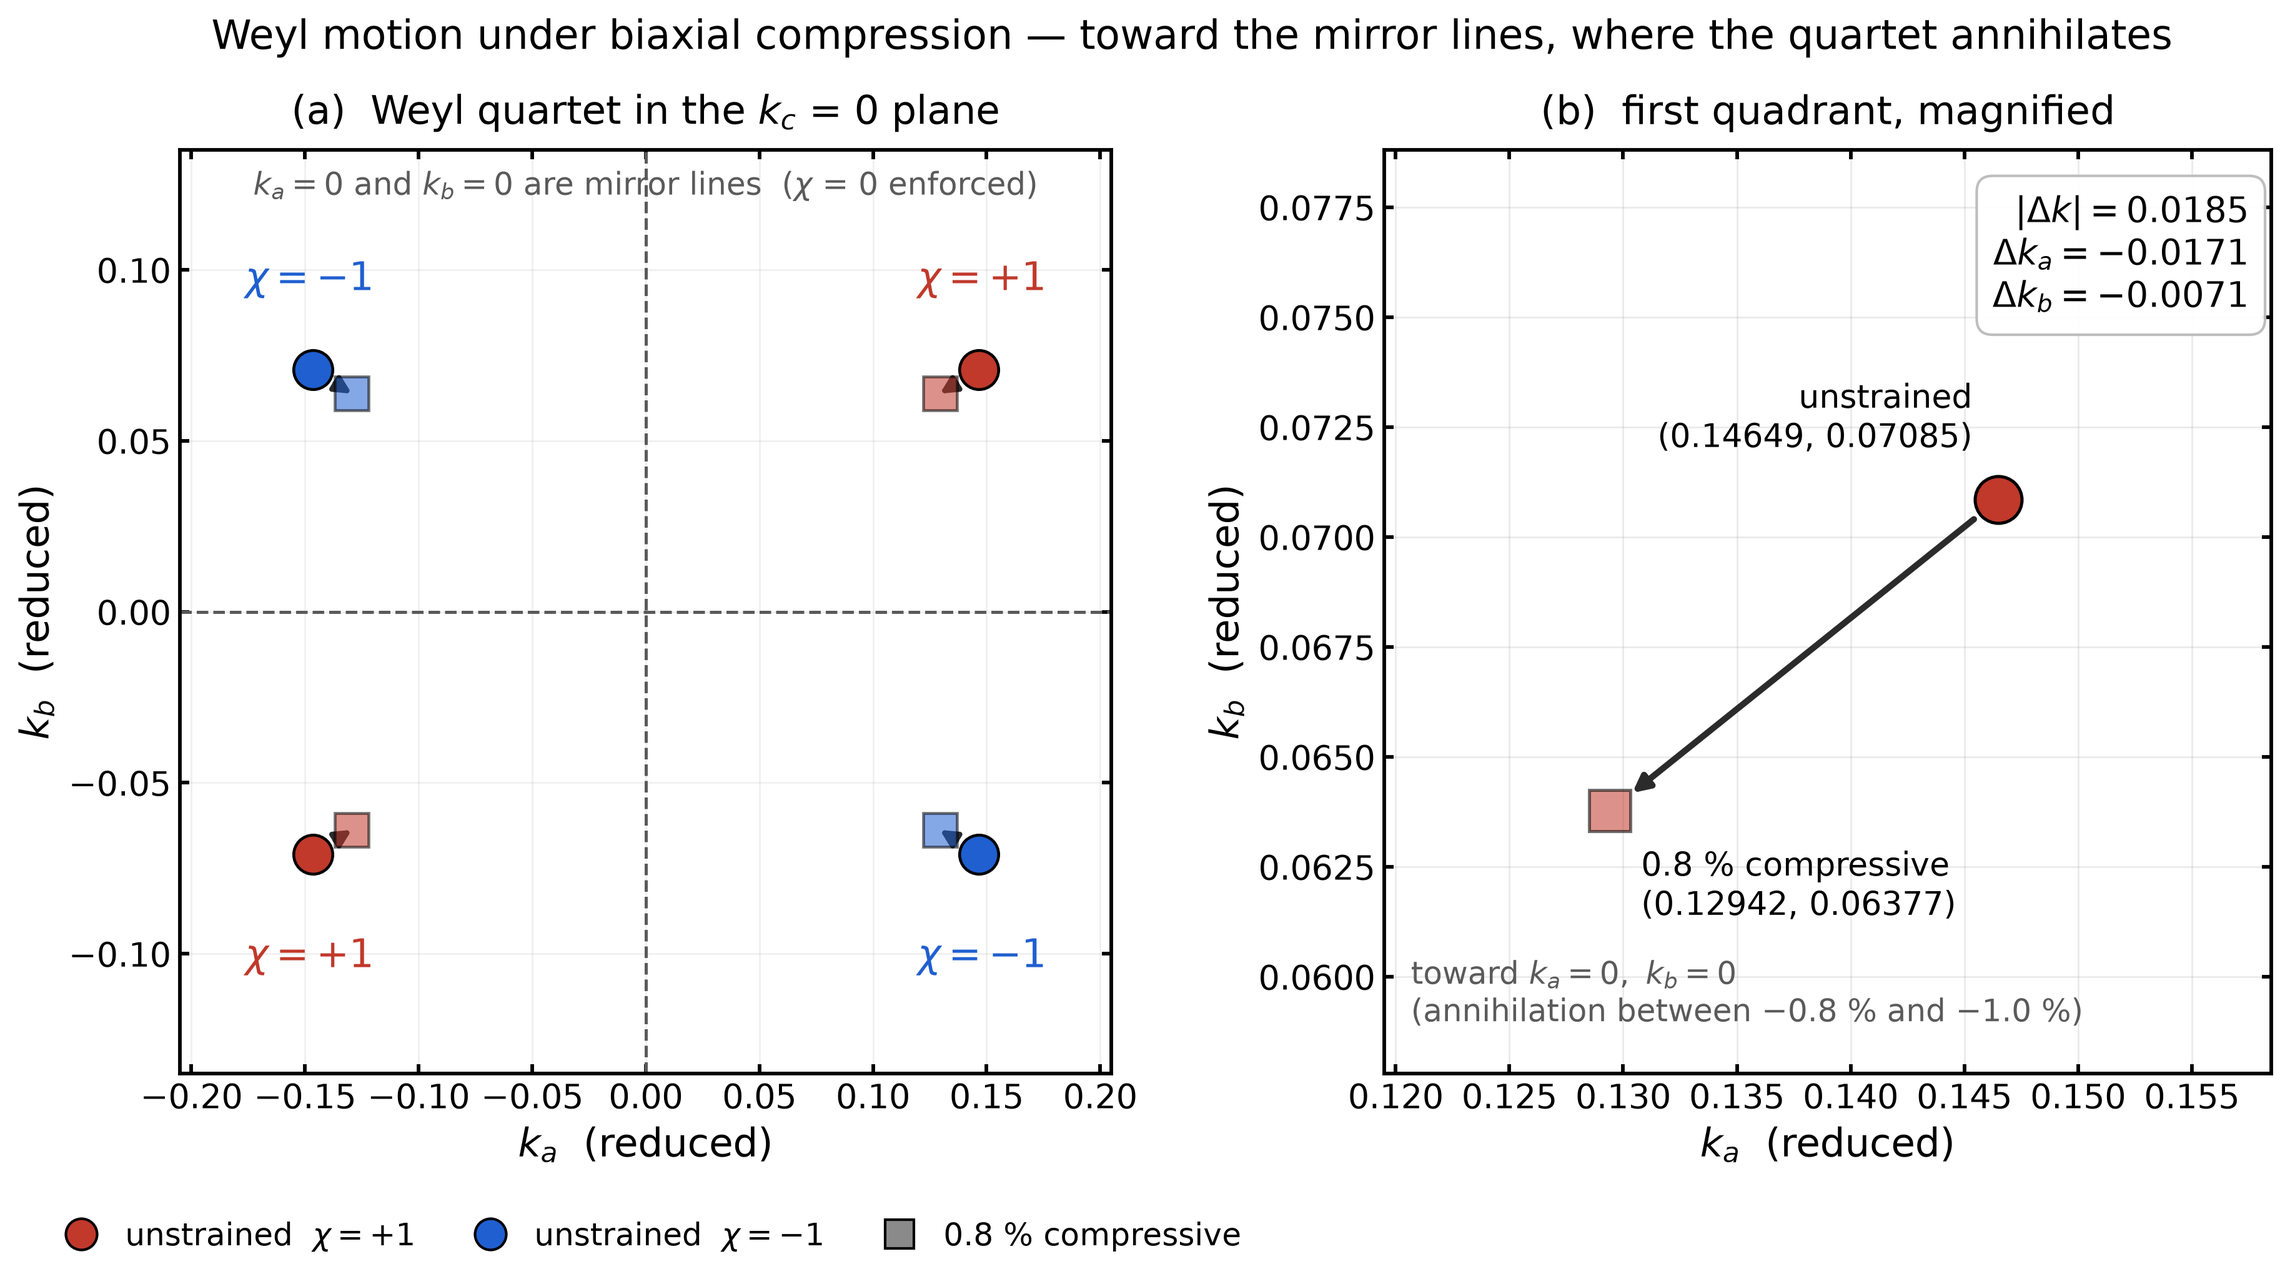
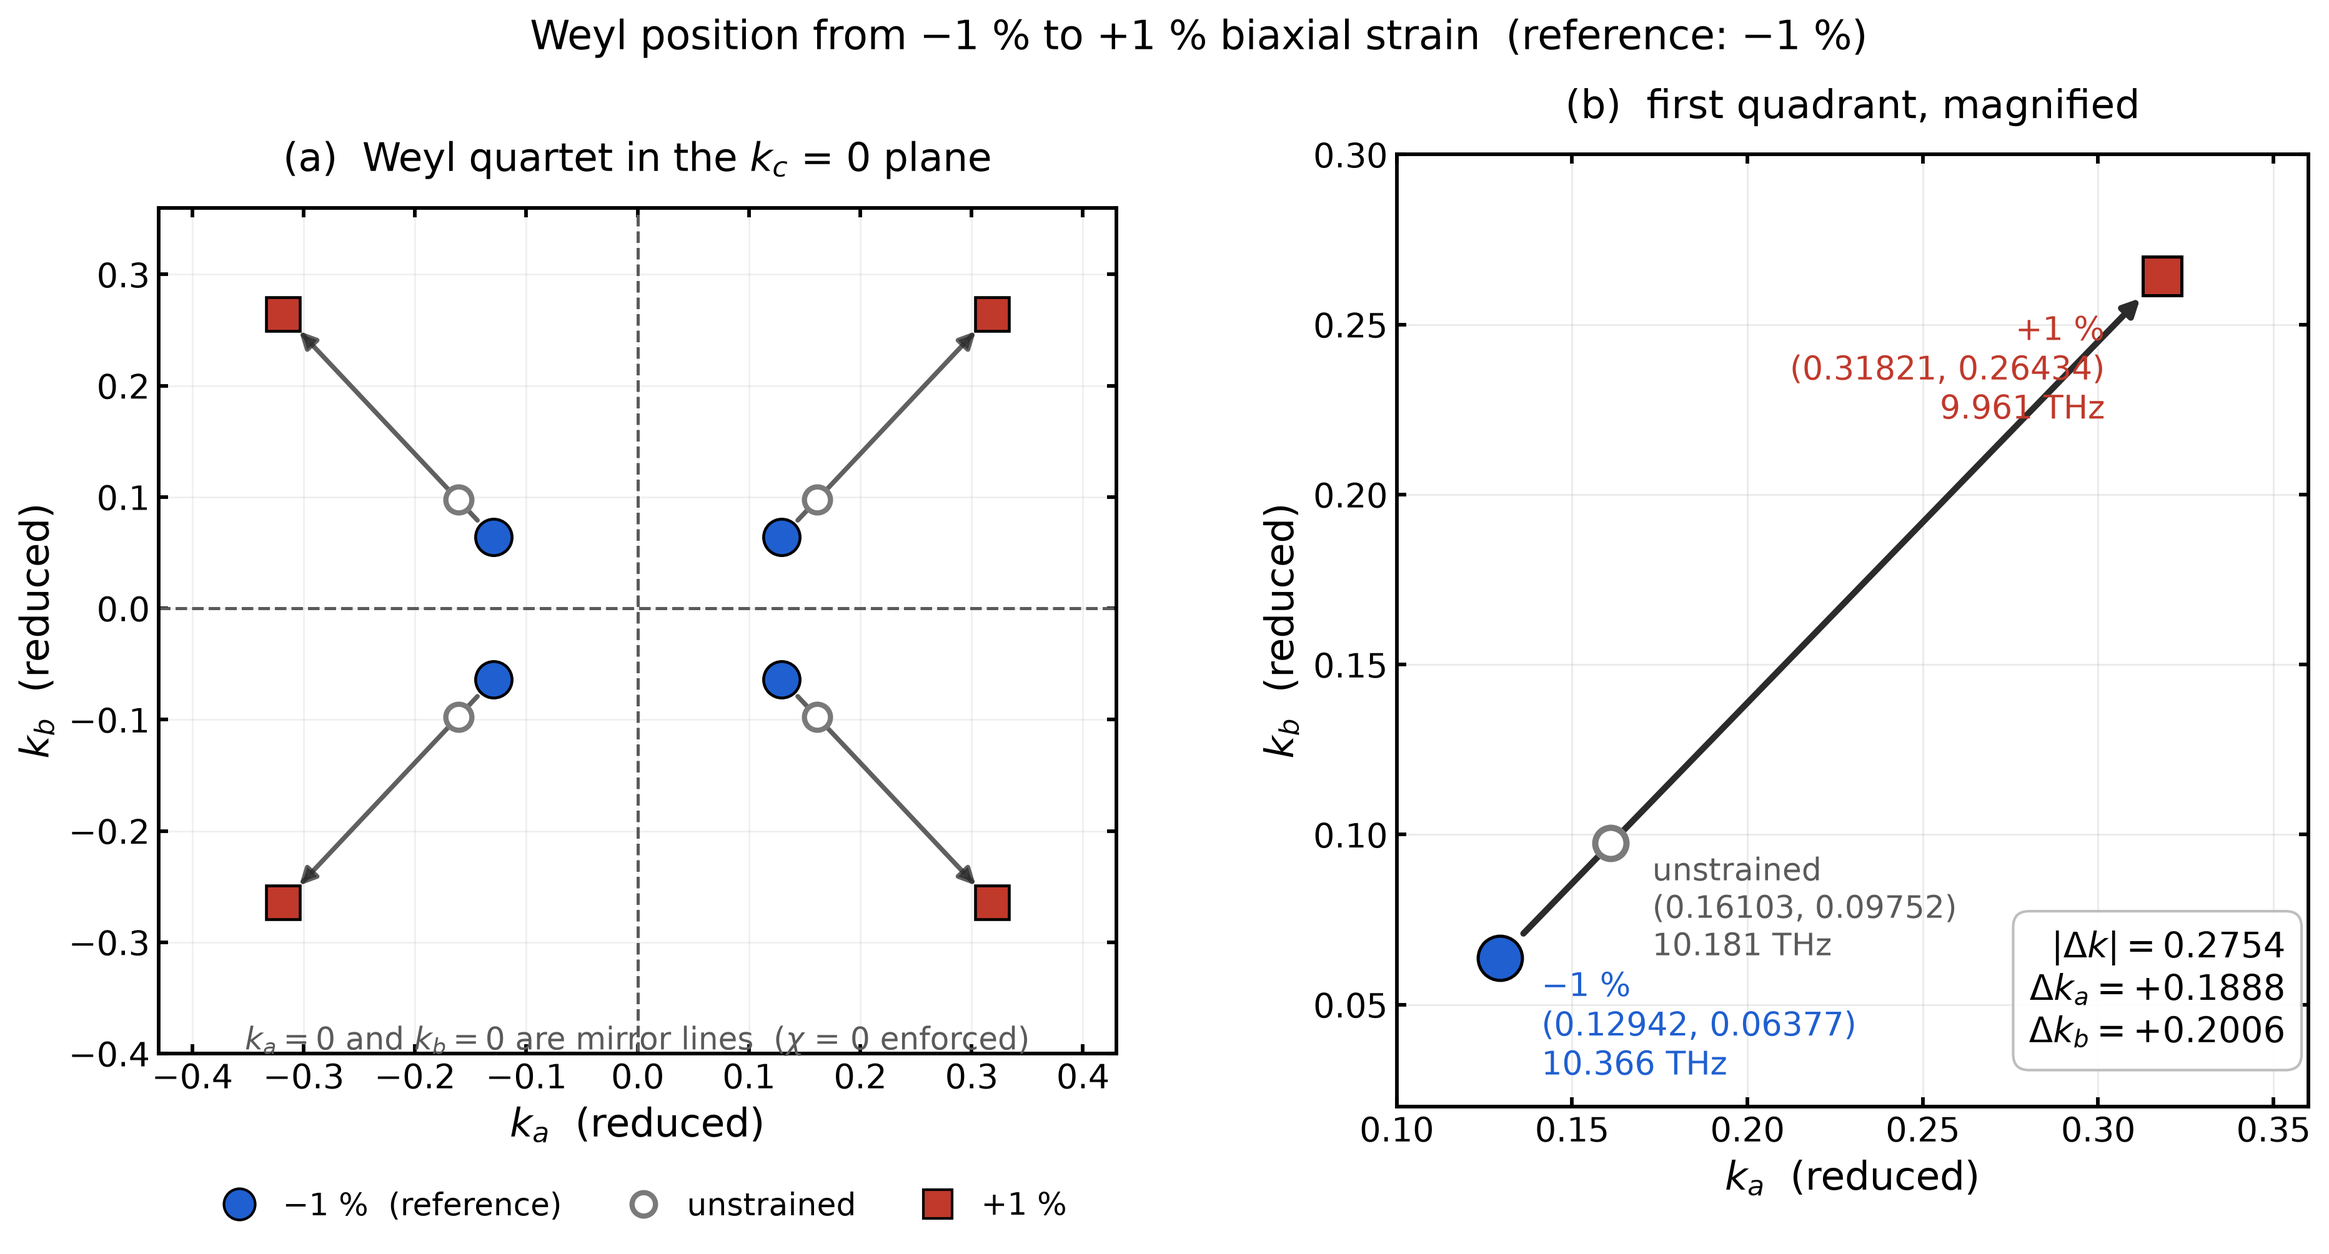
fig8: re-centre on -1% and show the -1% -> +1% trend
Rebuilt fig8 around the -1% structure as reference, with the unstrained point
shown in between. Every position was re-found from the POSCAR/FORCE_SETS
rather than copied from the earlier tables: a 201x201 scan of the polar=0
plane, then grid refinement of *every* local minimum outside the mirror
lines, keeping only those that stay at a general position. This is the
procedure results/node_audit/SUMMARY.md prescribes after the m2.5 error.

  -1%       native (0.0637717, 0, 0.1294182)  gap 3.55e-07  10.365955 THz
  unstrained       (0.0975234, 0, 0.1610282)  gap 2.68e-07  10.180597 THz
  +1%              (0.2643381, 0, 0.3182116)  gap 2.29e-07   9.960553 THz

In standard (a,b,c) that is k_a = native k3, k_b = native k1, k_c = 0, so
the quartet runs (0.12942, 0.06377) -> (0.31821, 0.26434), a shift of
|dk| = 0.2754 with dk_a = +0.1888, dk_b = +0.2006.

The recorded +1% coordinates were correct to six decimals.

Each of the three structures has exactly one node per quadrant in that
plane. pristine and -1% had four off-mirror local minima each and +1% had
seven; in every case all but one refine to gaps of 7.8e-04 or larger, four
orders above the nodes.

No chirality is annotated on the figure yet -- pristine and -1% come out with
one sign and +1% with the opposite under a single consistent implementation,
which cannot be a continuous motion of one point, so the arrow needs that
caveat before any chi is printed. Robustness of those signs is still being
checked.
[…]

diff --git a/scripts/figs/fig8_shift.py b/scripts/figs/fig8_shift.py
@@ -1,8 +1,13 @@
 #!/usr/bin/env python3
-"""Fig 8: pristine vs -0.8 % 의 바일 4점 위치 추이.
+"""Fig 8: −1 % → +1 % biaxial 에서 바일 4점 위치 추이. 기준은 −1 % 구조.
 
-(fig 6 은 `fig6_wcc.py` 로 분리했다 — Simphony 자체 .gnu 와 같은 내용으로
-WCC 합만 그린다.)
+좌표는 표준 (a, b, c) — 편극축 = c. pristine/m1/p1 세 구조 모두 축 규약이 같아
+(role2native = [2,0,1], polar = native 1) 같은 평면에 그대로 겹쳐 그릴 수 있다.
+
+위치는 전부 이 세션에서 다시 찾은 값이다 (기록값을 그대로 쓰지 않았다):
+polar=0 평면 201x201 스캔 -> 거울선 밖 국소최소 **전부** 격자 미세화 -> 일반위치에
+남는 것만 채택. 세 구조 모두 평면 위 노드는 사분면당 정확히 하나였다.
+자세한 내용은 results/strain_trend/SUMMARY.md.
 """
 import sys, os
 import numpy as np
@@ -10,68 +15,75 @@ sys.path.insert(0, os.path.dirname(os.path.abspath(__file__)))
 from style import setup, GREY
 setup()
 import matplotlib.pyplot as plt
+from matplotlib.lines import Line2D
 
-# ---------------- Fig 8 : Weyl 위치 추이 (표준 a,b,c 좌표)
-RED, BLU = '#c0392b', '#1f5fd0'
-pri = (0.1464927, 0.0708493)      # parent_pristine  (a,b)
-m08 = (0.1294180, 0.0637718)      # -0.8%  (native (0.06377,0,0.12942) -> role a=idx2, b=idx0)
-dka, dkb = m08[0] - pri[0], m08[1] - pri[1]
+# 표준 (k_a, k_b), k_c = 0.  k_a = native k3, k_b = native k1.
+M1 = (0.1294182, 0.0637717)      # −1 %  (native 0.0637717, 0, 0.1294182)   10.365955 THz
+PRI = (0.1610282, 0.0975234)     #  0 %  (native 0.0975234, 0, 0.1610282)   10.180597 THz
+P1 = (0.3182116, 0.2643381)      # +1 %  (native 0.2643381, 0, 0.3182116)    9.960553 THz
+E = {'m1': 10.365955, 'pri': 10.180597, 'p1': 9.960553}
+
+dka, dkb = P1[0] - M1[0], P1[1] - M1[1]
 dk = np.hypot(dka, dkb)
 
-fig, (ax, bx) = plt.subplots(1, 2, figsize=(14.4, 6.4),
+C_M1, C_P1, C_PRI = '#1f5fd0', '#c0392b', '#7a7a7a'
+
+fig, (ax, bx) = plt.subplots(1, 2, figsize=(14.8, 6.6),
                              gridspec_kw=dict(width_ratios=[1.05, 1.0], wspace=0.30))
 
-# --- (a) 4점 전체
+# --- (a) 4점 전체 -------------------------------------------------------------
 for sx in (1, -1):
     for sy in (1, -1):
-        c = RED if sx * sy > 0 else BLU
-        ax.annotate('', xy=(sx * m08[0], sy * m08[1]), xytext=(sx * pri[0], sy * pri[1]),
-                    arrowprops=dict(arrowstyle='-|>', color='#2b2b2b', lw=2.0,
-                                    shrinkA=10, shrinkB=9), zorder=3)
-        ax.plot(sx * pri[0], sy * pri[1], 'o', ms=15, color=c, mec='k', mew=1.1, zorder=5)
-        ax.plot(sx * m08[0], sy * m08[1], 's', ms=13, color=c, mec='k', mew=1.1,
-                alpha=0.55, zorder=4)
+        ax.annotate('', xy=(sx * P1[0], sy * P1[1]), xytext=(sx * M1[0], sy * M1[1]),
+                    arrowprops=dict(arrowstyle='-|>', color='#2b2b2b', lw=1.8,
+                                    shrinkA=9, shrinkB=9, alpha=0.75), zorder=3)
+        ax.plot(sx * PRI[0], sy * PRI[1], 'o', ms=10, color='white', mec=C_PRI,
+                mew=2.0, zorder=4)
+        ax.plot(sx * M1[0], sy * M1[1], 'o', ms=14, color=C_M1, mec='k', mew=1.1, zorder=5)
+        ax.plot(sx * P1[0], sy * P1[1], 's', ms=13, color=C_P1, mec='k', mew=1.1, zorder=5)
 ax.axhline(0, color=GREY, lw=1.2, ls='--'); ax.axvline(0, color=GREY, lw=1.2, ls='--')
-for s_, t_, col in ((+1, '$\\chi=+1$', RED), (-1, '$\\chi=-1$', BLU)):
-    ax.text(+0.148 * s_, 0.094, t_, color=col, ha='center', fontsize=15, fontweight='bold')
-    ax.text(-0.148 * s_, -0.104, t_, color=col, ha='center', fontsize=15, fontweight='bold')
-ax.text(0.0, 0.122, '$k_a=0$ and $k_b=0$ are mirror lines  ($\\chi$ = 0 enforced)',
-        ha='center', fontsize=12, color=GREY)
-ax.set_xlim(-0.205, 0.205); ax.set_ylim(-0.135, 0.135)
+ax.text(0.0, -0.375, '$k_a=0$ and $k_b=0$ are mirror lines  ($\\chi$ = 0 enforced)',
+        ha='center', va='top', fontsize=12, color=GREY)
+ax.set_xlim(-0.43, 0.43); ax.set_ylim(-0.40, 0.36)
 ax.set_xlabel('$k_a$  (reduced)'); ax.set_ylabel('$k_b$  (reduced)')
-ax.set_title('(a)  Weyl quartet in the $k_c$ = 0 plane', fontsize=15, pad=10)
+ax.set_title('(a)  Weyl quartet in the $k_c$ = 0 plane', fontsize=15, pad=14)
 ax.grid(alpha=0.18, lw=0.7)
-from matplotlib.lines import Line2D
-ax.legend(handles=[Line2D([], [], marker='o', ls='', ms=12, color=RED, mec='k', label='unstrained  $\\chi=+1$'),
-                   Line2D([], [], marker='o', ls='', ms=12, color=BLU, mec='k', label='unstrained  $\\chi=-1$'),
-                   Line2D([], [], marker='s', ls='', ms=11, color='#8a8a8a', mec='k', label='0.8 % compressive')],
-          loc='upper center', bbox_to_anchor=(0.5, -0.13), ncol=3,
-          frameon=False, handletextpad=0.4, columnspacing=1.4)
+ax.set_aspect('equal')
+ax.legend(handles=[
+    Line2D([], [], marker='o', ls='', ms=12, color=C_M1, mec='k', label='$-1$ %  (reference)'),
+    Line2D([], [], marker='o', ls='', ms=9, color='white', mec=C_PRI, mew=2.0, label='unstrained'),
+    Line2D([], [], marker='s', ls='', ms=11, color=C_P1, mec='k', label='$+1$ %')],
+    loc='upper center', bbox_to_anchor=(0.5, -0.13), ncol=3,
+    frameon=False, handletextpad=0.4, columnspacing=1.6)
 
-# --- (b) 1사분면 확대
-bx.annotate('', xy=m08, xytext=pri,
+# --- (b) 1사분면 확대 ---------------------------------------------------------
+bx.annotate('', xy=P1, xytext=M1,
             arrowprops=dict(arrowstyle='-|>', color='#2b2b2b', lw=2.4,
-                            shrinkA=12, shrinkB=11), zorder=3)
-bx.plot(*pri, 'o', ms=18, color=RED, mec='k', mew=1.2, zorder=5)
-bx.plot(*m08, 's', ms=16, color=RED, mec='k', mew=1.2, alpha=0.55, zorder=4)
-bx.annotate('unstrained\n(%.5f, %.5f)' % pri, xy=pri, xytext=(-10, 16),
-            textcoords='offset points', ha='right', va='bottom', fontsize=12.5)
-bx.annotate('0.8 %% compressive\n(%.5f, %.5f)' % m08, xy=m08, xytext=(12, -14),
-            textcoords='offset points', ha='left', va='top', fontsize=12.5)
-bx.text(0.975, 0.955,
+                            shrinkA=13, shrinkB=12), zorder=3)
+bx.plot(*M1, 'o', ms=17, color=C_M1, mec='k', mew=1.2, zorder=5)
+bx.plot(*PRI, 'o', ms=12, color='white', mec=C_PRI, mew=2.4, zorder=5)
+bx.plot(*P1, 's', ms=15, color=C_P1, mec='k', mew=1.2, zorder=5)
+bx.annotate('$-1$ %%\n(%.5f, %.5f)\n%.3f THz' % (M1 + (E['m1'],)), xy=M1,
+            xytext=(16, -4), textcoords='offset points', ha='left', va='top',
+            fontsize=12.5, color=C_M1)
+bx.annotate('unstrained\n(%.5f, %.5f)\n%.3f THz' % (PRI + (E['pri'],)), xy=PRI,
+            xytext=(16, -4), textcoords='offset points', ha='left', va='top',
+            fontsize=12, color='#5a5a5a')
+bx.annotate('$+1$ %%\n(%.5f, %.5f)\n%.3f THz' % (P1 + (E['p1'],)), xy=P1,
+            xytext=(-22, -14), textcoords='offset points', ha='right', va='top',
+            fontsize=12.5, color=C_P1)
+bx.text(0.975, 0.055,
         '$|\\Delta k| = %.4f$\n$\\Delta k_a = %+.4f$\n$\\Delta k_b = %+.4f$' % (dk, dka, dkb),
-        transform=bx.transAxes, ha='right', va='top', fontsize=13.5,
+        transform=bx.transAxes, ha='right', va='bottom', fontsize=13.5, zorder=8,
         bbox=dict(boxstyle='round,pad=0.45', fc='white', ec='#bbbbbb', lw=1.0, alpha=0.95))
-bx.text(0.03, 0.045, 'toward $k_a=0,\\ k_b=0$\n(annihilation between $-0.8$ % and $-1.0$ %)',
-        transform=bx.transAxes, ha='left', va='bottom', fontsize=12, color=GREY)
-bx.set_xlim(0.1195, 0.1585); bx.set_ylim(0.0578, 0.0788)
+bx.set_xlim(0.100, 0.360); bx.set_ylim(0.020, 0.300)
 bx.set_xlabel('$k_a$  (reduced)'); bx.set_ylabel('$k_b$  (reduced)')
-bx.set_title('(b)  first quadrant, magnified', fontsize=15, pad=10)
+bx.set_title('(b)  first quadrant, magnified', fontsize=15, pad=14)
 bx.grid(alpha=0.25, lw=0.7)
 
-fig.suptitle('Weyl motion under biaxial compression — toward the mirror lines, where the quartet annihilates',
+fig.suptitle('Weyl position from $-1$ % to $+1$ % biaxial strain  (reference: $-1$ %)',
              y=0.99, fontsize=15.5)
 fig.savefig('figs/fig8_weyl_shift.png')
 plt.close(fig)
 print('fig8 저장')
-print('이동량 (표준좌표): Delta k_a=%+.5f  Delta k_b=%+.5f  |Delta k|=%.5f' % (dka, dkb, dk))
+print('−1%% -> +1%%  Δk_a=%+.5f  Δk_b=%+.5f  |Δk|=%.5f' % (dka, dkb, dk))

diff --git a/scripts/figs/plane_survey.py b/scripts/figs/plane_survey.py
@@ -1,0 +1,81 @@
+#!/usr/bin/env python3
+"""polar=0 평면 위 band17/18 노드 전수 조사 — pristine / m1 / p1.
+
+node_audit 의 교훈대로: gap 순위로 자르지 않고 **국소최소 후보를 전부** 격자
+미세화한 뒤, (a) 거울선에 빨려들지 않고 일반위치에 남는가 (b) chirality 가 여러
+반지름에서 정수로 안정한가 로 판정한다.
+"""
+import sys, time
+import numpy as np
+sys.path.insert(0, __file__.rsplit('/', 2)[0])
+sys.path.insert(0, __file__.rsplit('/', 1)[0])
+from weyl_scan import get_ph, gap_at, symmetry_info
+from axes import roles
+
+BAND = 17
+N = 201                      # 평면 격자 (간격 0.0025)
+TOLMIR = 0.012               # 거울선에서 이만큼 안쪽만 후보로
+
+def flux(ph, rec, center, r, nth=36, nph=72, nocc=17):
+    th = np.linspace(0, np.pi, nth); phi = np.linspace(0, 2*np.pi, nph, endpoint=False)
+    T, P = np.meshgrid(th, phi, indexing='ij')
+    d = np.stack([np.sin(T)*np.cos(P), np.sin(T)*np.sin(P), np.cos(T)], -1)
+    Q = (center + (d*r) @ np.linalg.inv(rec)).reshape(-1, 3)
+    ph.run_qpoints([list(q) for q in Q], with_eigenvectors=True)
+    V = ph.qpoints.eigenvectors; nb = V.shape[1]
+    V = V.reshape(nth, nph, nb, nb)[:, :, :, :nocc]
+    L = lambda A, B: (lambda m: m/np.abs(m))(np.linalg.det(
+        np.einsum('...ji,...jk->...ik', A.conj(), B)))
+    Vp = np.concatenate([V, V[:, :1]], axis=1)
+    F = np.angle(L(Vp[:-1,:-1],Vp[:-1,1:]) * L(Vp[:-1,1:],Vp[1:,1:]) /
+                 (L(Vp[1:,:-1],Vp[1:,1:]) * L(Vp[:-1,:-1],Vp[1:,:-1])))
+    return F.sum()/(2*np.pi)
+
+for src in ('pristine_mirror', 'm1_mirror', 'p1_mirror'):
+    D = '/home/user/HfO2-Orthorhombic-Polar-Project/source/' + src
+    r2n, pol, mir = roles(D)
+    ph = get_ph(D)
+    rec = np.linalg.inv(ph.primitive.cell).T * 2*np.pi
+    i0, i1 = mir                                     # 거울 지표 (native)
+    print('=' * 78); print(src, '  polar native', pol, '  mirror native', mir, flush=True)
+
+    ax = np.linspace(0, 0.5, N)
+    A, B = np.meshgrid(ax, ax, indexing='ij')
+    Q = np.zeros((N*N, 3)); Q[:, i0] = A.ravel(); Q[:, i1] = B.ravel(); Q[:, pol] = 0.0
+    t = time.time(); g = np.empty(N*N)
+    for s in range(0, N*N, 20000):
+        g[s:s+20000] = gap_at(ph, [list(q) for q in Q[s:s+20000]], BAND)
+    g = g.reshape(N, N)
+    print('  평면 스캔 %dx%d  %.0fs   전체 최소 %.3e' % (N, N, time.time()-t, g.min()), flush=True)
+
+    # 거울선에서 떨어진 국소최소 후보
+    inner = (ax > TOLMIR) & (ax < 0.5 - TOLMIR)
+    m = np.where(np.outer(inner, inner), g, np.inf)
+    loc = []
+    for i in range(1, N-1):
+        for j in range(1, N-1):
+            if np.isinf(m[i, j]): continue
+            if m[i, j] <= m[i-1:i+2, j-1:j+2].min():
+                loc.append((m[i, j], ax[i], ax[j]))
+    loc.sort()
+    print('  거울선 밖 국소최소 %d개 — 전부 미세화한다' % len(loc), flush=True)
+
+    for gv, a0, b0 in loc[:10]:
+        ctr = np.array([a0, b0]); half = 0.0025
+        for _ in range(7):
+            aa = np.linspace(ctr[0]-half, ctr[0]+half, 13)
+            bb = np.linspace(ctr[1]-half, ctr[1]+half, 13)
+            AA, BB = np.meshgrid(aa, bb, indexing='ij')
+            QQ = np.zeros((169, 3)); QQ[:, i0] = AA.ravel(); QQ[:, i1] = BB.ravel(); QQ[:, pol] = 0.0
+            gg = gap_at(ph, [list(q) for q in QQ], BAND)
+            k = int(np.argmin(gg)); ctr = np.array([QQ[k, i0], QQ[k, i1]]); best = gg[k]; half /= 3
+        onmir = min(abs(ctr[0]), abs(ctr[0]-0.5), abs(ctr[1]), abs(ctr[1]-0.5)) < 1e-3
+        q = np.zeros(3); q[i0], q[i1] = ctr
+        ph.run_qpoints([list(q)]); E = ph.qpoints.frequencies[0][BAND-1]
+        tag = '거울선으로 배수' if onmir else '일반위치 유지'
+        line = ('    격자 %.3e  ->  native(k%d,k%d)=(%.7f, %.7f)  gap %.3e  E %.6f  [%s]'
+                % (gv, i0+1, i1+1, ctr[0], ctr[1], best, E, tag))
+        if not onmir and best < 1e-4:
+            chis = [flux(ph, rec, q, r) for r in (0.002, 0.004, 0.008)]
+            line += '   chi = %s' % ' / '.join('%+.2f' % c for c in chis)
+        print(line, flush=True)

diff --git a/scripts/figs/chi_robust.py b/scripts/figs/chi_robust.py
@@ -1,0 +1,50 @@
+"""chirality 가 정말 안정한가 — 반지름 6개 x 방법 2개.
+
+parent_pristine 에서 flux 가 r=0.005 와 0.008 사이에서 뒤집히고 WCC 는 0 을 주는
+것을 발견해, pristine/m1/p1 세 구조에 대해 같은 검사를 한다.
+안정하지 않으면 그림에 chi 를 적으면 안 된다.
+"""
+import sys, numpy as np
+sys.path.insert(0, __file__.rsplit('/', 2)[0])
+from weyl_scan import get_ph, gap_at
+NOCC=17
+def flux(ph,rec,c,r,nth=60,nph=120):
+    th=np.linspace(0,np.pi,nth); ph_=np.linspace(0,2*np.pi,nph,endpoint=False)
+    T,P=np.meshgrid(th,ph_,indexing='ij')
+    d=np.stack([np.sin(T)*np.cos(P),np.sin(T)*np.sin(P),np.cos(T)],-1)
+    Q=(c+(d*r)@np.linalg.inv(rec)).reshape(-1,3)
+    ph.run_qpoints([list(q) for q in Q],with_eigenvectors=True)
+    V=ph.qpoints.eigenvectors; nb=V.shape[1]
+    V=V.reshape(nth,nph,nb,nb)[:,:,:,:NOCC]
+    L=lambda A,B:(lambda m:m/np.abs(m))(np.linalg.det(np.einsum('...ji,...jk->...ik',A.conj(),B)))
+    Vp=np.concatenate([V,V[:,:1]],axis=1)
+    F=np.angle(L(Vp[:-1,:-1],Vp[:-1,1:])*L(Vp[:-1,1:],Vp[1:,1:])/(L(Vp[1:,:-1],Vp[1:,1:])*L(Vp[:-1,:-1],Vp[1:,:-1])))
+    return F.sum()/(2*np.pi)
+def wcc(ph,rec,c,r,nth=81,nph=120):
+    ths=np.linspace(1e-3,np.pi-1e-3,nth); phis=np.linspace(0,2*np.pi,nph,endpoint=False)
+    s=[]
+    for t in ths:
+        d=np.stack([np.sin(t)*np.cos(phis),np.sin(t)*np.sin(phis),np.cos(t)*np.ones(nph)],-1)
+        Q=c+(d*r)@np.linalg.inv(rec)
+        ph.run_qpoints([list(q) for q in Q],with_eigenvectors=True)
+        V=ph.qpoints.eigenvectors[:,:,:NOCC]
+        W=np.eye(NOCC,dtype=complex)
+        for i in range(nph): W=W@(V[i].conj().T@V[(i+1)%nph])
+        s.append(np.angle(np.linalg.det(W)))
+    d=np.diff(np.array(s)); d=(d+np.pi)%(2*np.pi)-np.pi
+    return d.sum()/(2*np.pi)
+
+CASES=[('pristine',(0.0975234,0.0,0.1610282)),
+       ('m1 (-1%)',(0.0637717,0.0,0.1294182)),
+       ('p1 (+1%)',(0.2643381,0.0,0.3182116)),
+       ('parent',  (0.1464927,0.0708493,0.0))]
+SRC={'pristine':'pristine_mirror','m1 (-1%)':'m1_mirror','p1 (+1%)':'p1_mirror','parent':'parent_pristine'}
+RAD=[0.0010,0.0020,0.0035,0.0050,0.0080,0.0120]
+for lab,k in CASES:
+    D='/home/user/HfO2-Orthorhombic-Polar-Project/source/'+SRC[lab]
+    ph=get_ph(D); rec=np.linalg.inv(ph.primitive.cell).T*2*np.pi
+    k=np.array(k)
+    g=gap_at(ph,[list(k)],NOCC)[0]
+    print('%-10s gap %.2e' % (lab,g), flush=True)
+    print('   flux(60x120): ' + '  '.join('r=%.4f:%+.2f'%(r,flux(ph,rec,k,r)) for r in RAD), flush=True)
+    print('   WCC (81x120): ' + '  '.join('r=%.4f:%+.2f'%(r,wcc(ph,rec,k,r)) for r in (0.0020,0.0035,0.0080)), flush=True)
